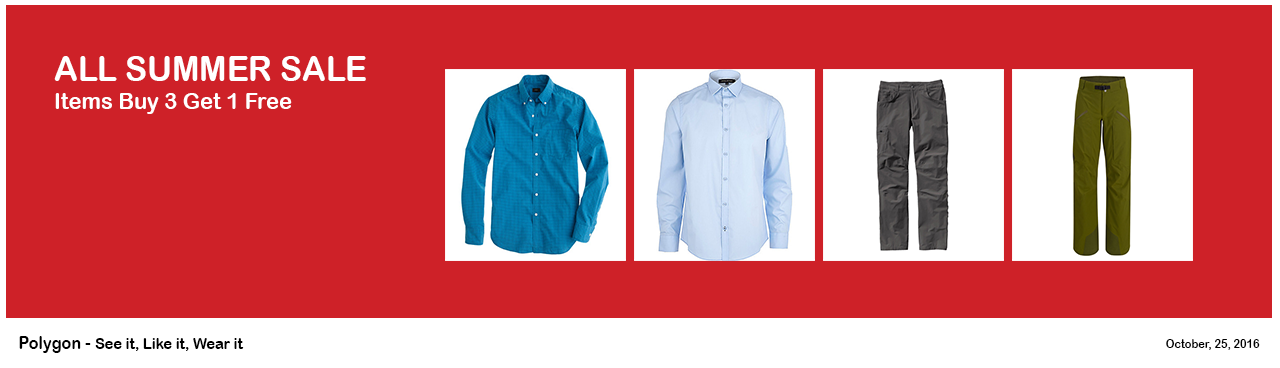
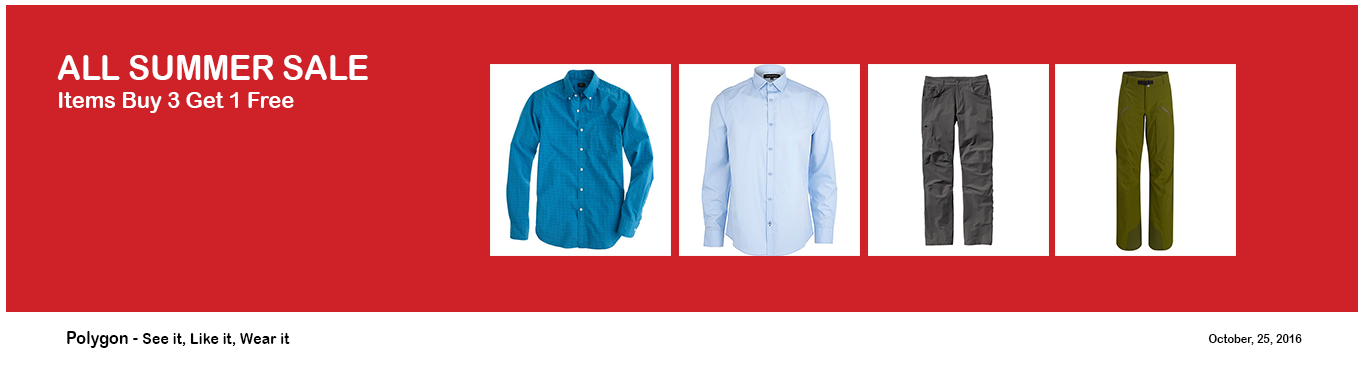
Modify promotion pic

diff --git a/templates/pages/base/home.html b/templates/pages/base/home.html
@@ -135,7 +135,7 @@
                 <hr id="hr">
             </div>
             <div class="row" style="margin-left: 0px; margin-right: 0px">
-                <img src="{% static 'base/image/promotion.png' %}"/>
+                <img src="{% static 'base/image/promotion.png' %}" class="img-responsive"/>
             </div>
         </div>
     </section>
